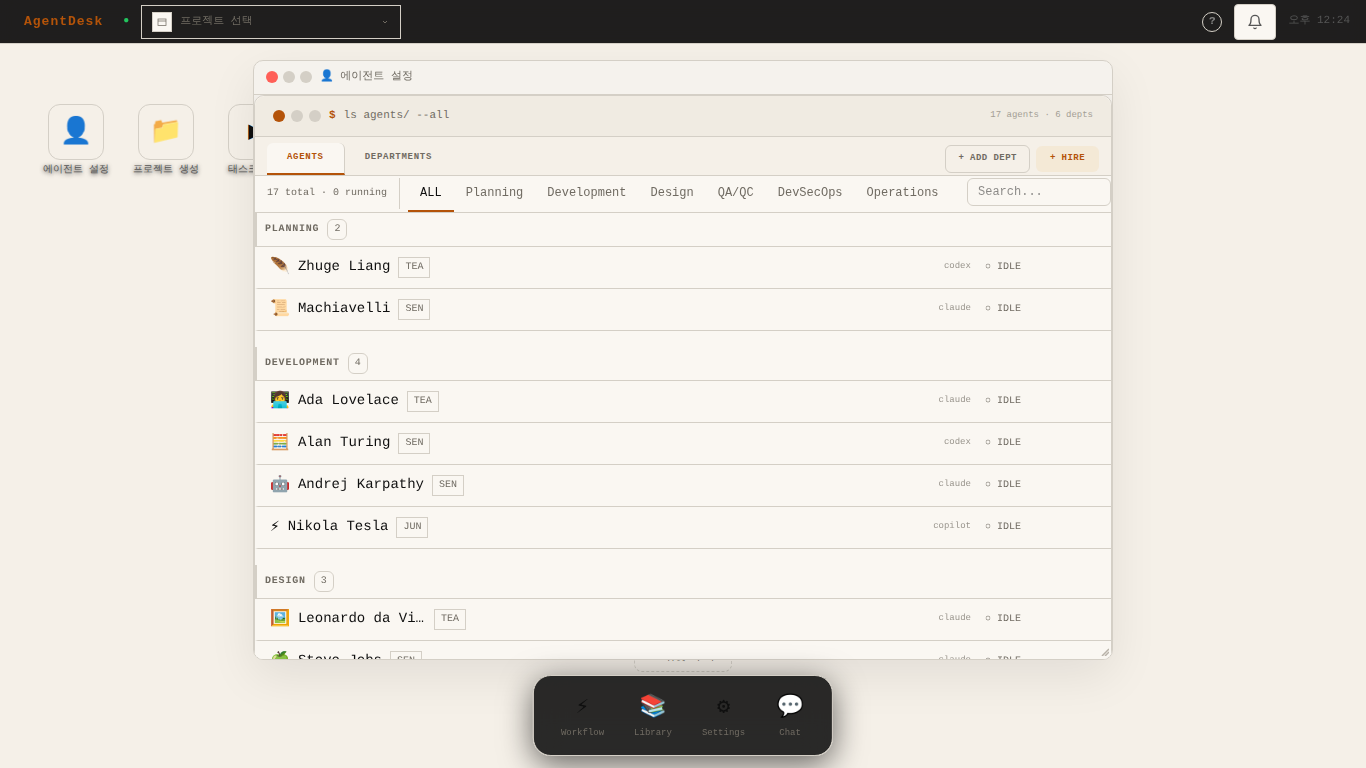
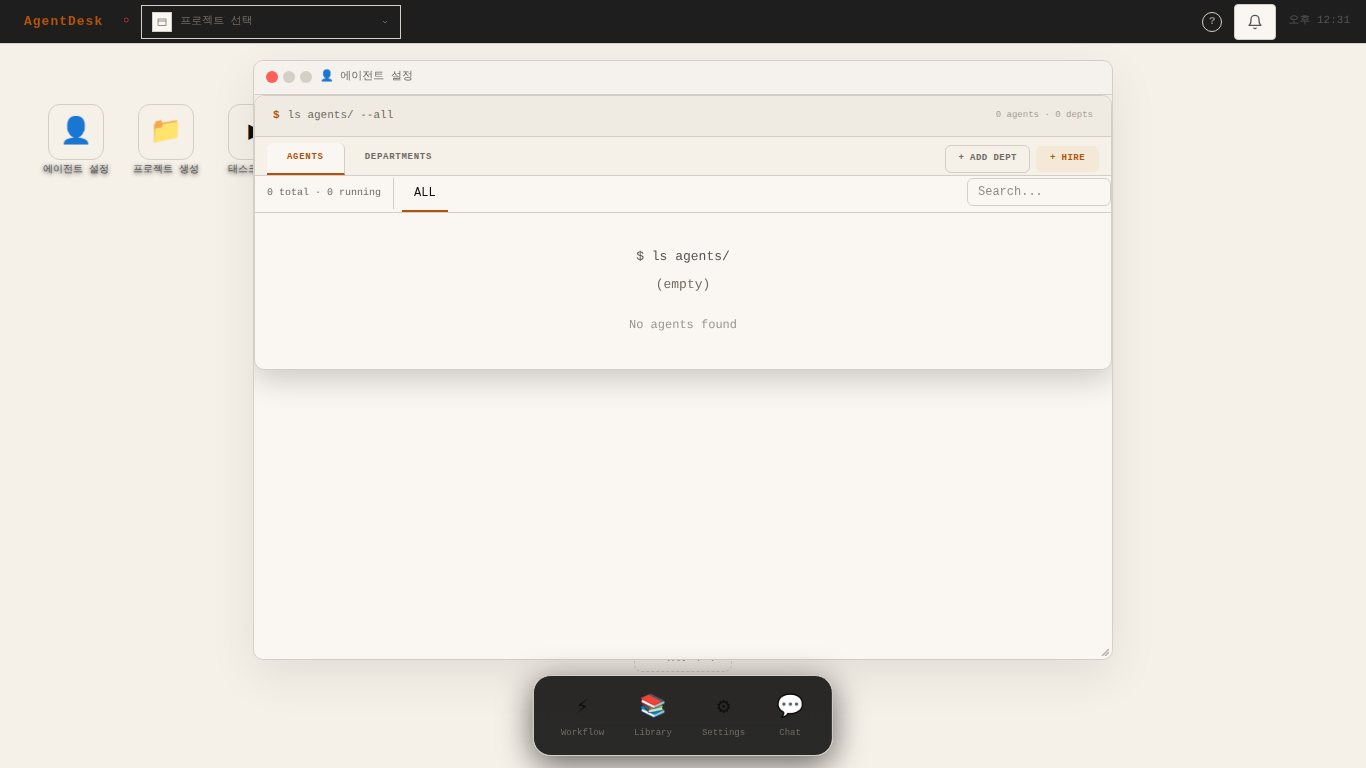
fix: AgentManager 내부 트래픽 라이트 장식 제거
AgentManager.tsx 헤더의 장식용 ●○○ circles 제거.
AppWindow 타이틀바와 중복되던 문제 수정 (REPL과 동일한 패턴).
28-agent-manager.png, 29-repl.png 스크린샷 업데이트.

https://claude.ai/code/session_01SSG1EkcMjdyMt5FqBYPhTX

diff --git a/src/components/AgentManager.tsx b/src/components/AgentManager.tsx
@@ -345,12 +345,6 @@ export default function AgentManager({
           WebkitBackdropFilter: "blur(12px)",
         }}
       >
-        {/* 트래픽 라이트 장식 */}
-        <div className="flex flex-shrink-0 items-center gap-1.5">
-          <div className="h-3 w-3 flex-shrink-0 rounded-full" style={{ background: "var(--th-accent)" }} aria-hidden />
-          <div className="h-3 w-3 flex-shrink-0 rounded-full" style={{ background: "var(--th-border)" }} aria-hidden />
-          <div className="h-3 w-3 flex-shrink-0 rounded-full" style={{ background: "var(--th-border)" }} aria-hidden />
-        </div>
         <span style={{ color: "var(--th-accent)", fontWeight: 700, fontSize: "11px" }}>$</span>
         <span style={{ fontSize: "11px", color: "var(--th-text-muted)" }}>
           ls agents/ --all{deptTab !== "all" ? ` --dept="${deptTab}"` : ""}
